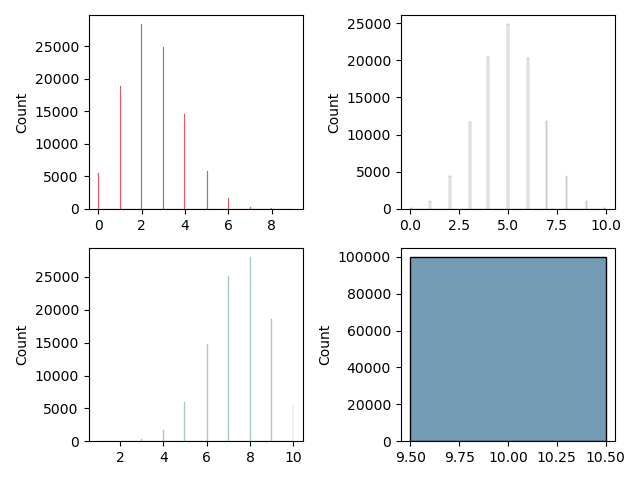
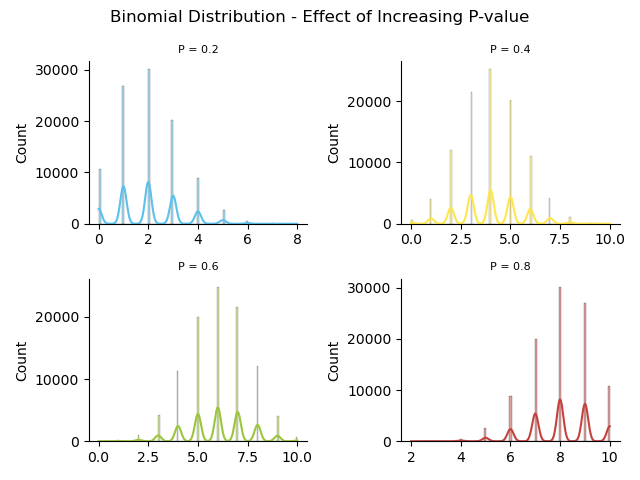
binomial plot

diff --git a/distributions.py b/distributions.py
@@ -3,7 +3,6 @@ from numpy import random
 import matplotlib.pyplot as plt
 import seaborn as sns
 
-git
 #Uniform Distribution
 #Generating multiple plots to show effect of sample size
 #Expect that as sample size increases, plot will more closely resemble a normal distribution - 
@@ -27,18 +26,60 @@ plt.tight_layout()
 plt.savefig("uniform distribution.png")
 plt.close()
 
+fig, ax = plt.subplots()
+
+plt.suptitle("Chi Square Probability Distribution - Effect of Degrees of Freedom")
+#Generating three numpy arrays from Chi Square Distribution and plotting KDEs to see effect of df
+sns.kdeplot(random.chisquare(df = 1, size = 1000), ax = ax, color = '#DAB6C4', label = "1 Degree of Freedom")
+ax2 = ax.twinx()
+ax2.get_yaxis().set_ticks([])
+sns.kdeplot(random.chisquare(df = 10, size = 1000), ax =ax2, color = '#7B886F', label = "10 Degrees of Freedom")
+ax3 = ax.twinx()
+ax3.get_yaxis().set_ticks([])
+sns.kdeplot(random.chisquare(df = 20, size = 1000), ax = ax3, color = '#B4DC7F', label = "20 Degrees of Freedom" )
+
+lines, labels = ax.get_legend_handles_labels()
+lines2, labels2 = ax2.get_legend_handles_labels()
+lines3, labels3 = ax2.get_legend_handles_labels()
+ax2.legend(lines + lines2 + lines3, labels + labels2 + labels3, loc=0)
+
+plt.savefig("chisquare.png")
+plt.close()
+
+fig, (ax1, ax2, ax3) = plt.subplots(1, 3)
+#Removing top and right spines from plot
+sns.despine()
+plt.suptitle("Chi Square Distribution - Histogram with PDF")
+#Plotting histograms for each distribution with KDE
+
+sns.histplot(random.chisquare(df = 1, size = 100), ax = ax1, color = '#4B3F72', kde = True, edgecolor='#4B3F72', label = "1 Degree of Freedom")
+ax1.set_title("1 Degree of Freedom", fontsize = 8)
+sns.histplot(random.chisquare(df = 10, size = 100), ax = ax2, color = '#FFC857', kde = True, edgecolor = '#FFC857',  label = "10 Degrees of Freedom")
+ax2.set_title("10 Degrees of Freedom", fontsize = 8)
+sns.histplot(random.chisquare(df = 20, size = 100), ax = ax3, color = '#119DA4', kde = True, edgecolor = '#119DA4', label = "20 Degrees of Freedom")
+ax3.set_title("20 Degrees of Freedom", fontsize = 8)
+
+plt.tight_layout()
+plt.savefig("chisquarehist.png")
+plt.close()
+
 #Binomial Distribution
-#Simulating one Coin Toss done 100000 times
 #Changing Probability to see effect on distribution
 fig, ((ax1, ax2), (ax3, ax4)) = plt.subplots(2, 2)
-cointest25 = np.random.binomial(n = 10, p = 0.25, size = 100000)
-cointest50 = np.random.binomial(n = 10, p = 0.50, size = 100000)
-cointest75 = np.random.binomial(n = 10, p = 0.75, size = 100000)
-cointest100 = np.random.binomial(n = 10, p = 1, size = 100000)
-sns.histplot(cointest25, ax = ax1, color = '#e63946')
-sns.histplot(cointest50, ax = ax2, color = '#f1faee')
-sns.histplot(cointest75, ax = ax3, color = '#a8dadc')
-sns.histplot(cointest100, ax = ax4, color = '#457b9d')
+sns.despine()
+plt.suptitle("Binomial Distribution - Effect of Increasing P-value")
+prob20 = np.random.binomial(n = 10, p = 0.20, size = 100000)
+ax1.set_title("P = 0.2", fontsize = 8)
+prob40 = np.random.binomial(n = 10, p = 0.40, size = 100000)
+ax2.set_title("P = 0.4", fontsize = 8)
+prob60 = np.random.binomial(n = 10, p = 0.60, size = 100000)
+ax3.set_title("P = 0.6", fontsize = 8)
+prob80 = np.random.binomial(n = 10, p = 0.80, size = 100000)
+ax4.set_title("P = 0.8", fontsize = 8)
+sns.histplot(prob20, ax = ax1, color = '#5BC0EB', kde = True)
+sns.histplot(prob40, ax = ax2, color = '#FDE74C', kde = True)
+sns.histplot(prob60, ax = ax3, color = '#9BC53D', kde = True)
+sns.histplot(prob80, ax = ax4, color = '#C3423F', kde = True)
 plt.tight_layout()
 plt.savefig("binomial distribution.png")
 plt.close()
